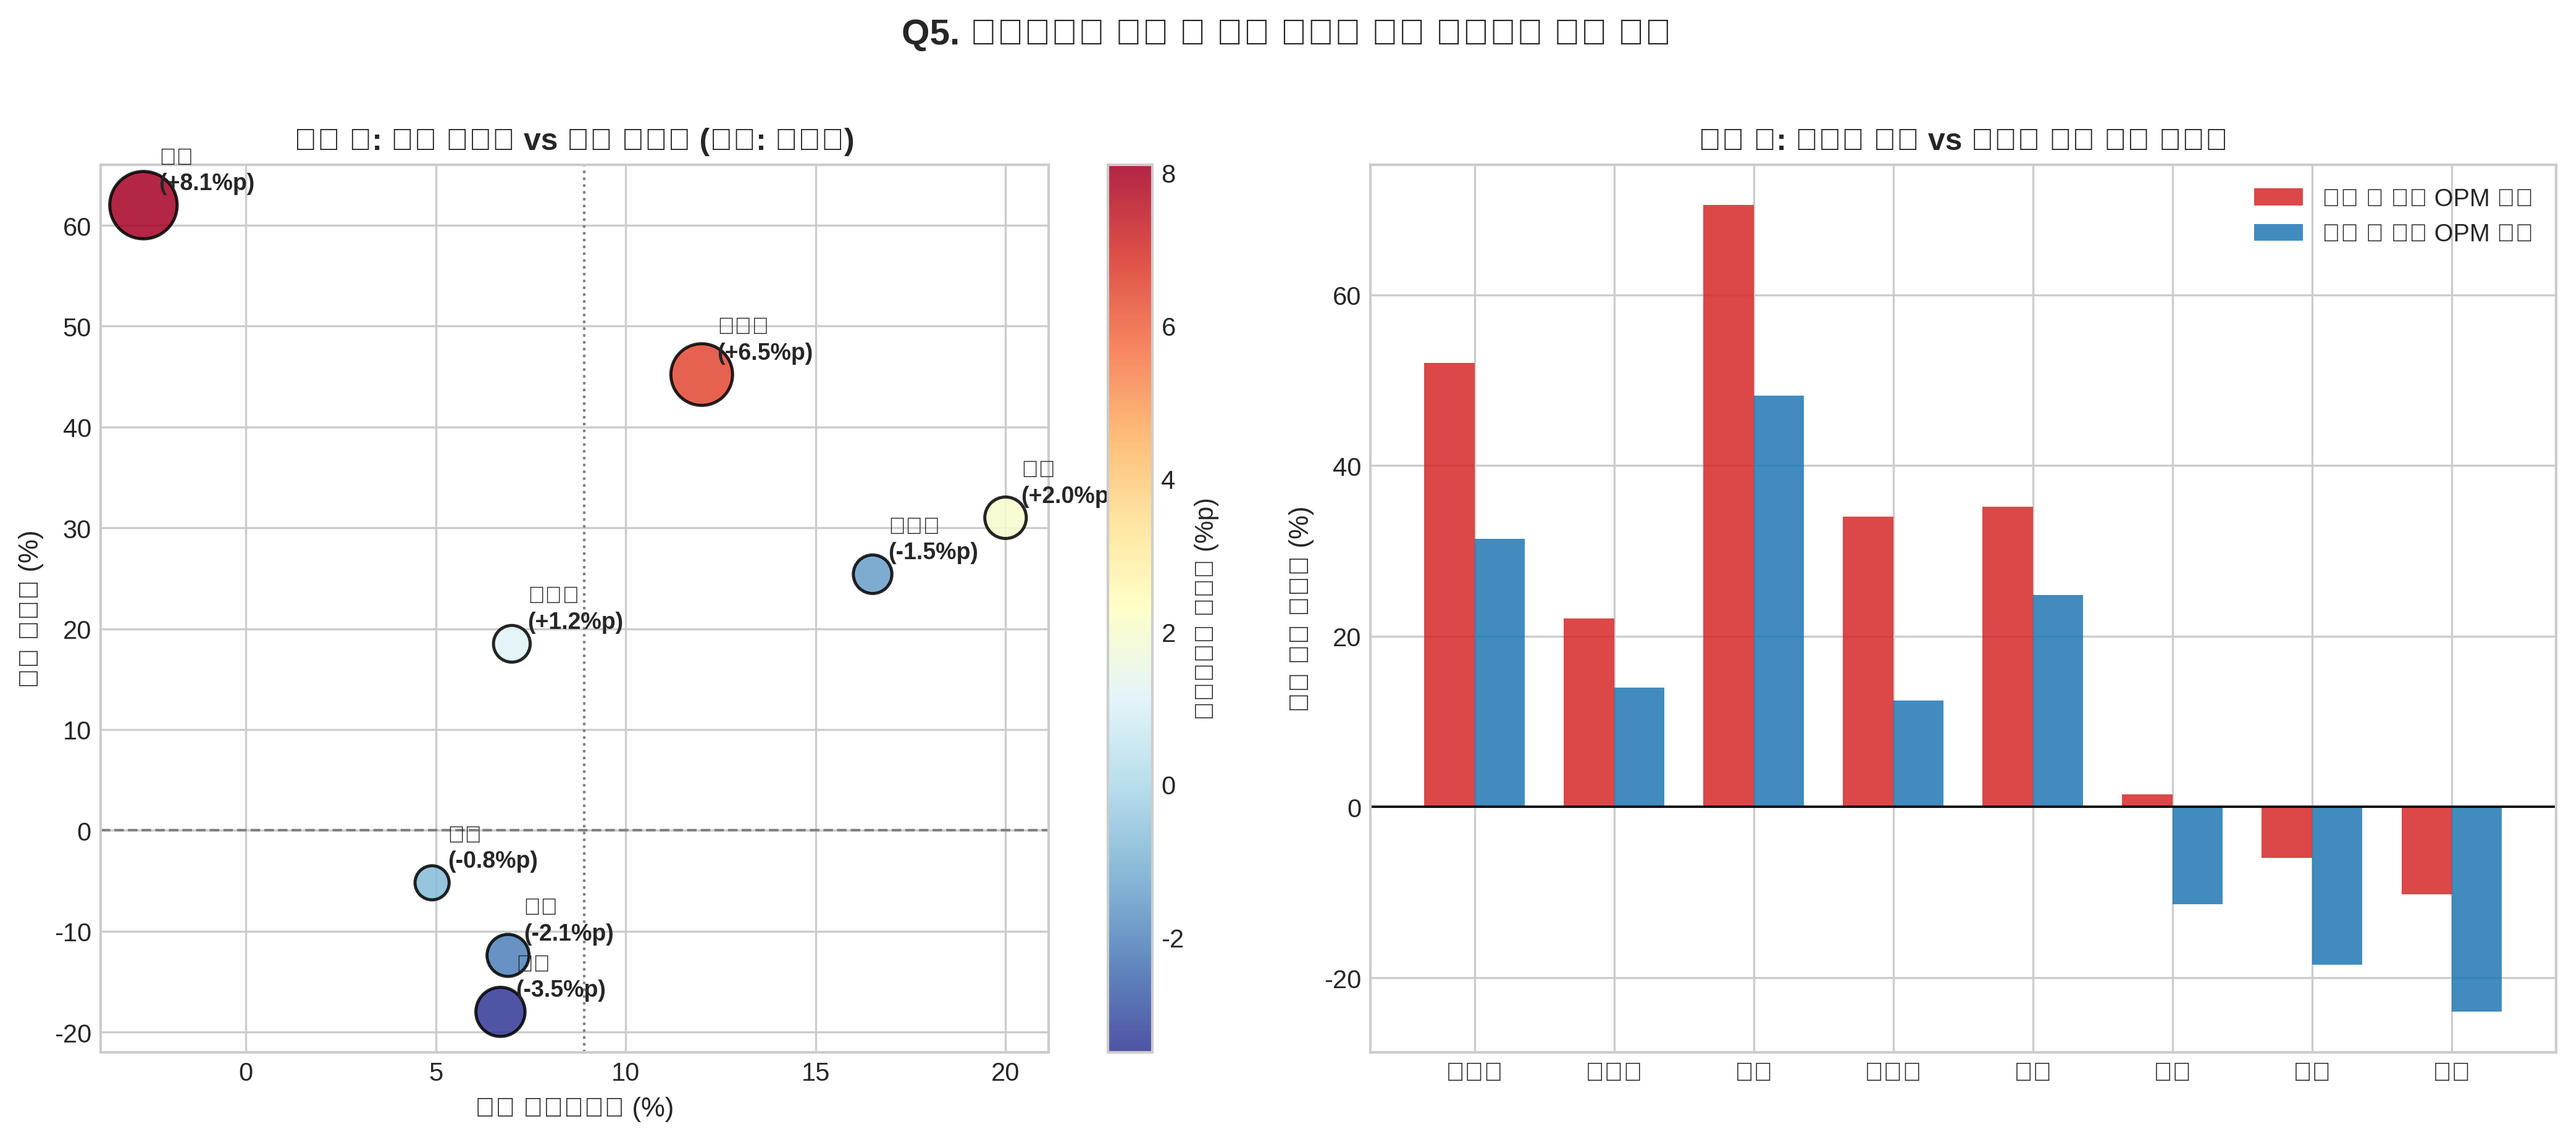
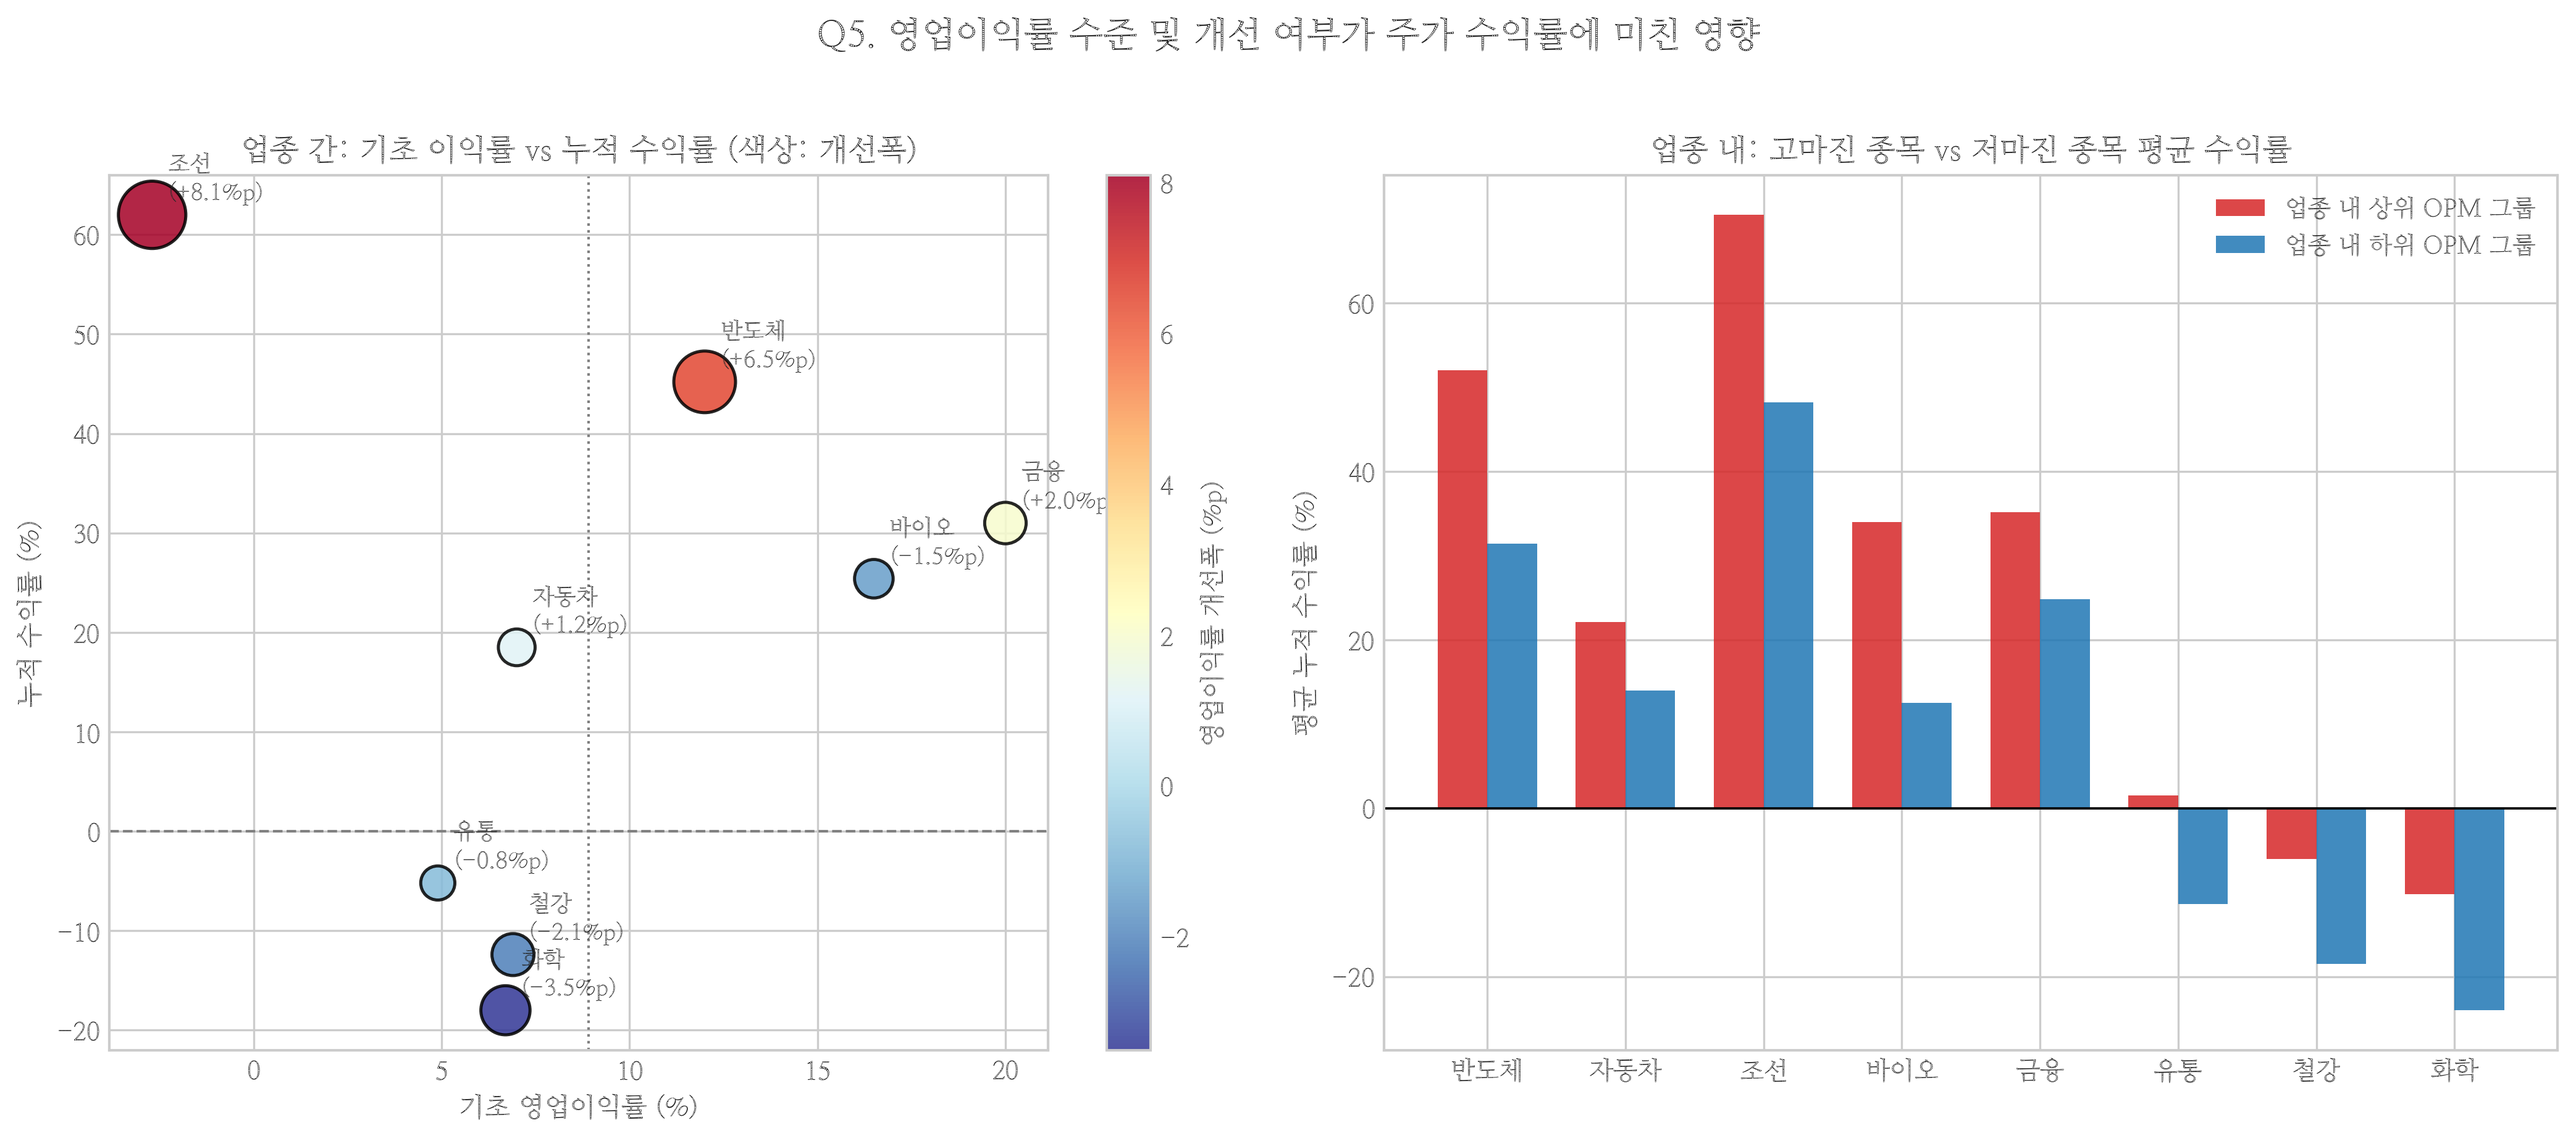
Fix Korean font in Q5 plot

diff --git a/q5.py b/q5.py
@@ -1,11 +1,30 @@
+import os
+import glob
 import matplotlib
 matplotlib.use('Agg')
 import matplotlib.pyplot as plt
+import matplotlib.font_manager as fm
 import numpy as np
 
-plt.rcParams['font.family'] = 'NanumGothic'
+# 서버 내 한글 폰트 자동 탐색 및 등록
+font_candidates = []
+for pattern in ['*Nanum*.ttf', '*NotoSansCJK*.ttc', '*NotoSansKR*.otf', '*UnDotum*.ttf', '*Baekmuk*.ttf', '*Malgun*.ttf']:
+    font_candidates.extend(glob.glob(f'/usr/share/fonts/**/{pattern}', recursive=True))
+    font_candidates.extend(glob.glob(os.path.expanduser(f'~/.local/share/fonts/**/{pattern}'), recursive=True))
+
+if font_candidates:
+    font_path = font_candidates[0]
+    fm.fontManager.addfont(font_path)
+    font_name = fm.FontProperties(fname=font_path).get_name()
+    plt.rcParams['font.family'] = font_name
+    print(f"[사용 폰트] {font_name} ({font_path})")
+else:
+    print("[경고] 서버에 한글 폰트가 없습니다. 아래 '한글 폰트 설치' 안내를 참고하세요.")
+
 plt.rcParams['axes.unicode_minus'] = False
 plt.style.use('seaborn-v0_8-whitegrid')
+if font_candidates:
+    plt.rcParams['font.family'] = font_name  # style.use 이후 폰트 재적용 필수
 
 sectors = ['반도체', '자동차', '조선', '바이오', '금융', '유통', '철강', '화학']
 opm_initial = [12.0, 7.0, -2.7, 16.5, 20.0, 4.9, 6.9, 6.7]
